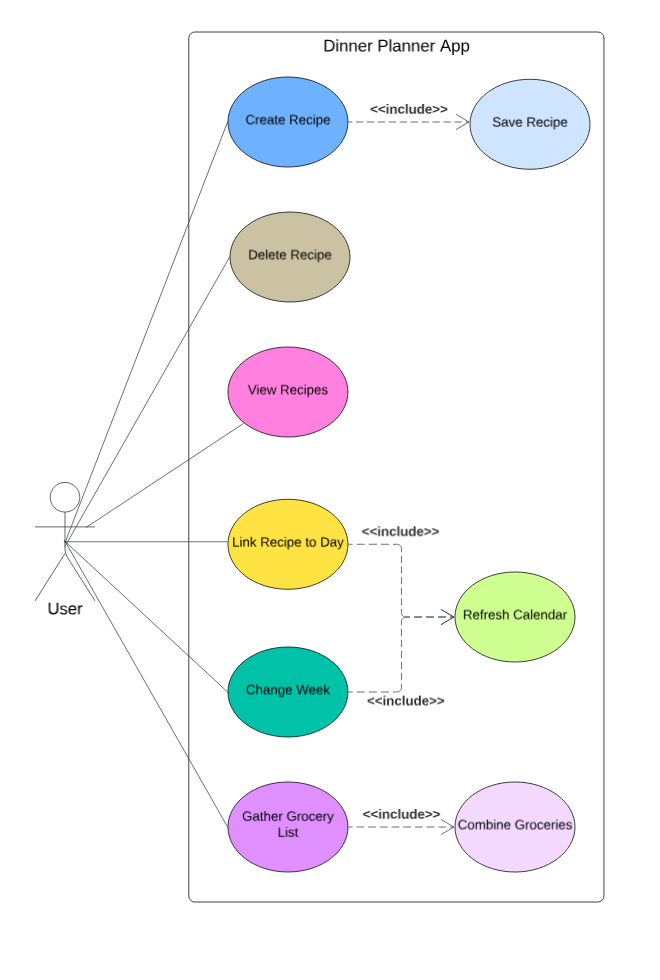
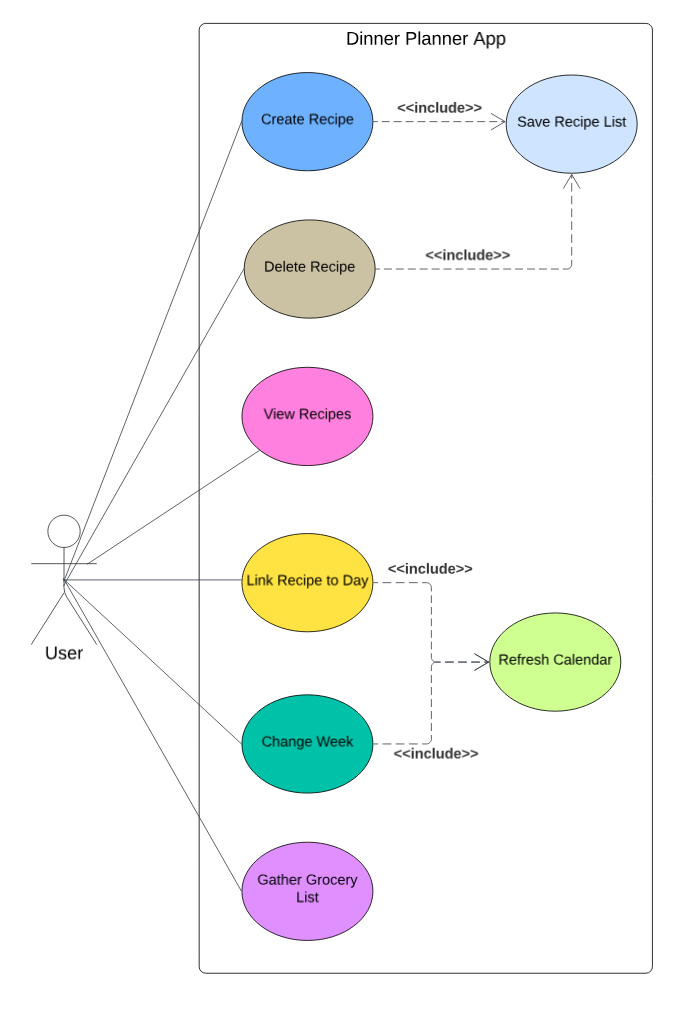
Added Figure into .md

diff --git a/README.md b/README.md
@@ -2,7 +2,7 @@
 
 ## Dinner Planner App
 
-### Made by
+## Made by
 
 ---
 
@@ -10,9 +10,19 @@
 
 ### Rylan Bernhardt
 
+---
+
+## Important Links
+
+ ----
+ 
 ### JIRA
 
-https://mail-team-otacijvt.atlassian.net/jira/software/projects/C3P/boards/2?atlOrigin=eyJpIjoiN2IzZmNkY2E5NmYzNDdhMTg2YWI1NzQ3MWYxYjg2ZjciLCJwIjoiaiJ9
+<https://mail-team-otacijvt.atlassian.net/jira/software/projects/C3P/boards/2?atlOrigin=eyJpIjoiN2IzZmNkY2E5NmYzNDdhMTg2YWI1NzQ3MWYxYjg2ZjciLCJwIjoiaiJ9>
+
+### GITHUB
+
+<https://github.com/Rjbern/CIS-350-Project>
 
 ---
 
@@ -26,9 +36,57 @@ Flutter allows for the development of mobile applications that can be used acros
 
 ## 3. Architectural Design
 
+"**Dinner Planner**" was designed around a singluar client side interface.  This means that all storage of data is housed on device. A risk analysis was done in order to decide to go with the architecture shown in Figure 1.
+
+<p align="center">
+  <img src="readmeFigures/architectureDesign.PNG" width="300" title="architecture">
+  <br>
+  Figure 1: Client and Storage Architecture
+</p>
+
+This architecture design allows a singular user to keep all their data stored on device so no internet connection is needed to run the app.  Additionally, there is no chance that a sever disruption could hinder the user using the app.  Two downsides to this design that were considered were multi-device support and having a backup if the users device were to get damaged.  For the short timeline of this project the simplicity of not having a server made the most sense because the two main issues were more long term itteration changes.
+
 ### 3.1 Class Diagram
 
-### 3.2 Sequence Diagram
+<p align="center">
+  <img src="readmeFigures/classDiagram.PNG" width="700" title="useCase">
+  <br>
+  Figure 2: Class Diagram
+</p>
+
+### 3.2 Use Case Diagram
+
+Major uses of the "**Diner Planner**" were designed about the most crucial elements users would need to interact with.  The use case diagram can be seen in Figure 3.
+
+<p align="center">
+  <img src="readmeFigures/useCase.PNG" width="300" title="useCase">
+  <br>
+  Figure 3: Use Case Diagram
+</p>
+
+These interactions were decided upon by asking a sample group of people what they would like to see from this type of app.  The most common things said amongst this group is being able to create their own recipe, having a calendar to see what recipe is when, and having an easy way to get a grocery list for any week so shopping is easier.  These are reflected by our choices in designing Figure 2.
+
+### 3.3 Sequence Diagram
+
+The three major interactions come from creating the recipes, linking those recipes to the date the user wants to make that recipe, and gathering the grocieries for a given week.  Figures 4 through 6 show the sequence diagrams for these interactions.
+
+<p align="center">
+  <img src="readmeFigures/createRecipeSequence.PNG" width="300" title="useCase">
+  <br>
+  Figure 4: Sequence Diagram for Creating Recipes
+</p>
+
+<p align="center">
+  <img src="readmeFigures/linkRecipeSequence.PNG" width="300" title="useCase">
+  <br>
+  Figure 5: Sequence Diagram for Creating Recipes
+</p>
+
+<p align="center">
+  <img src="readmeFigures/getGrocerySequence.PNG" width="300" title="useCase">
+  <br>
+  Figure 6: Sequence Diagram for Creating Recipes
+</p>
 
 ## 4. User Guide / Implementation
 
